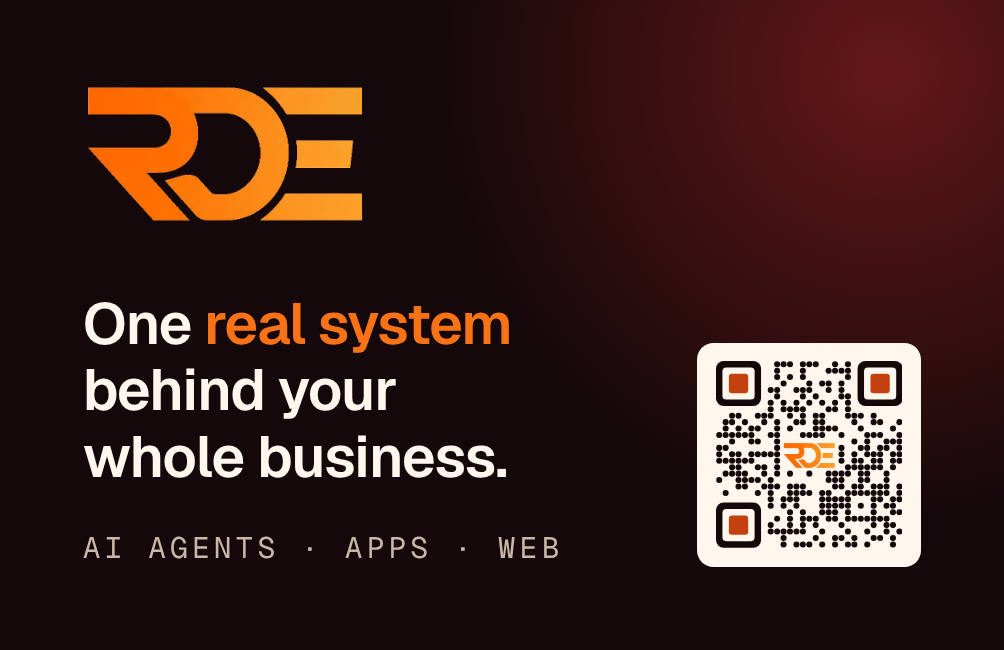
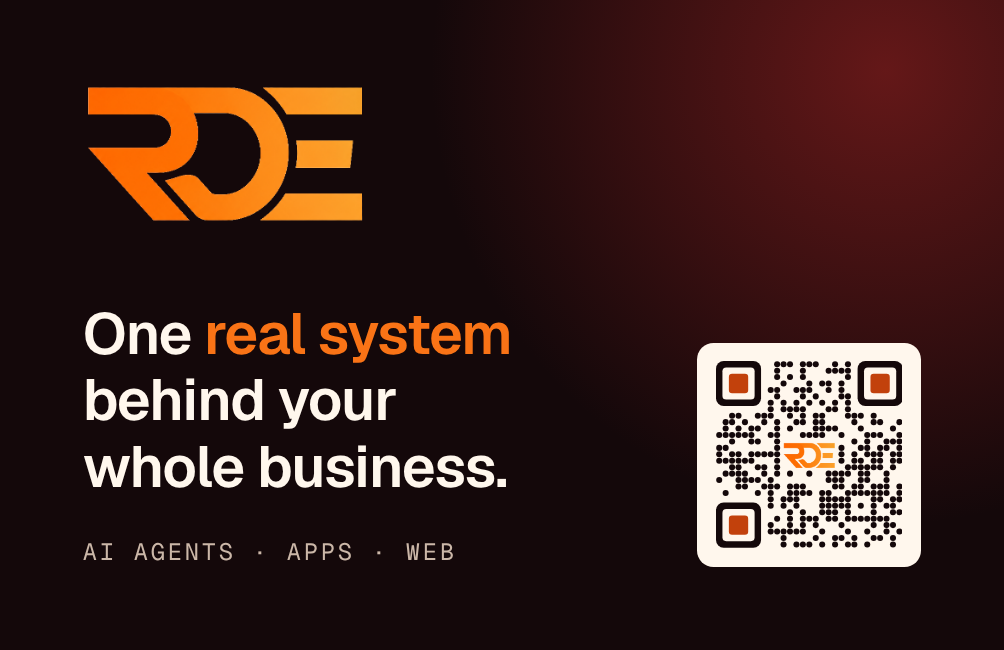
Business card: smaller descriptor line
Claude-Session: https://claude.ai/code/session_01B6fozEJdCLAGrKoXUG1e35

diff --git a/business-card/_back-bleed.html b/business-card/_back-bleed.html
@@ -16,7 +16,7 @@ body{margin:0;background:var(--bg);color:var(--fg);font-family:var(--font)}
 .front .tag{position:absolute;left:calc(7 * var(--mm));bottom:calc(7 * var(--mm));right:calc(7 * var(--mm))}
 .front h2{margin:0;font-weight:600;font-size:calc(4.9 * var(--mm));line-height:1.15;letter-spacing:-.02em;color:var(--paper)}
 .front h2 em{font-style:normal;color:var(--orange)}
-.front .mono{margin-top:calc(3.2 * var(--mm));font-family:var(--mono);font-size:calc(2.5 * var(--mm));letter-spacing:.14em;text-transform:uppercase;color:#cbb7a8}
+.front .mono{margin-top:calc(3 * var(--mm));font-family:var(--mono);font-size:calc(2 * var(--mm));letter-spacing:.12em;text-transform:uppercase;color:#cbb7a8}
 .front .qr{position:absolute;right:calc(7 * var(--mm));bottom:calc(7 * var(--mm));width:calc(19 * var(--mm));height:calc(19 * var(--mm));background:var(--paper);padding:calc(1.6 * var(--mm));border-radius:calc(1.4 * var(--mm))}.front .qr svg{display:block;width:100%;height:100%}
 .front .pil{position:absolute;right:calc(7 * var(--mm));top:calc(8 * var(--mm));font-family:var(--mono);font-size:calc(2.3 * var(--mm));letter-spacing:.14em;text-transform:uppercase;color:var(--peach);opacity:.8}
 .back{background:var(--paper);color:var(--ink)}

diff --git a/business-card/_back.html b/business-card/_back.html
@@ -16,7 +16,7 @@ body{margin:0;background:var(--bg);color:var(--fg);font-family:var(--font)}
 .front .tag{position:absolute;left:calc(7 * var(--mm));bottom:calc(7 * var(--mm));right:calc(7 * var(--mm))}
 .front h2{margin:0;font-weight:600;font-size:calc(4.9 * var(--mm));line-height:1.15;letter-spacing:-.02em;color:var(--paper)}
 .front h2 em{font-style:normal;color:var(--orange)}
-.front .mono{margin-top:calc(3.2 * var(--mm));font-family:var(--mono);font-size:calc(2.5 * var(--mm));letter-spacing:.14em;text-transform:uppercase;color:#cbb7a8}
+.front .mono{margin-top:calc(3 * var(--mm));font-family:var(--mono);font-size:calc(2 * var(--mm));letter-spacing:.12em;text-transform:uppercase;color:#cbb7a8}
 .front .qr{position:absolute;right:calc(7 * var(--mm));bottom:calc(7 * var(--mm));width:calc(19 * var(--mm));height:calc(19 * var(--mm));background:var(--paper);padding:calc(1.6 * var(--mm));border-radius:calc(1.4 * var(--mm))}.front .qr svg{display:block;width:100%;height:100%}
 .front .pil{position:absolute;right:calc(7 * var(--mm));top:calc(8 * var(--mm));font-family:var(--mono);font-size:calc(2.3 * var(--mm));letter-spacing:.14em;text-transform:uppercase;color:var(--peach);opacity:.8}
 .back{background:var(--paper);color:var(--ink)}

diff --git a/business-card/_front-bleed.html b/business-card/_front-bleed.html
@@ -16,7 +16,7 @@ body{margin:0;background:var(--bg);color:var(--fg);font-family:var(--font)}
 .front .tag{position:absolute;left:calc(7 * var(--mm));bottom:calc(7 * var(--mm));right:calc(7 * var(--mm))}
 .front h2{margin:0;font-weight:600;font-size:calc(4.9 * var(--mm));line-height:1.15;letter-spacing:-.02em;color:var(--paper)}
 .front h2 em{font-style:normal;color:var(--orange)}
-.front .mono{margin-top:calc(3.2 * var(--mm));font-family:var(--mono);font-size:calc(2.5 * var(--mm));letter-spacing:.14em;text-transform:uppercase;color:#cbb7a8}
+.front .mono{margin-top:calc(3 * var(--mm));font-family:var(--mono);font-size:calc(2 * var(--mm));letter-spacing:.12em;text-transform:uppercase;color:#cbb7a8}
 .front .qr{position:absolute;right:calc(7 * var(--mm));bottom:calc(7 * var(--mm));width:calc(19 * var(--mm));height:calc(19 * var(--mm));background:var(--paper);padding:calc(1.6 * var(--mm));border-radius:calc(1.4 * var(--mm))}.front .qr svg{display:block;width:100%;height:100%}
 .front .pil{position:absolute;right:calc(7 * var(--mm));top:calc(8 * var(--mm));font-family:var(--mono);font-size:calc(2.3 * var(--mm));letter-spacing:.14em;text-transform:uppercase;color:var(--peach);opacity:.8}
 .back{background:var(--paper);color:var(--ink)}

diff --git a/business-card/_front.html b/business-card/_front.html
@@ -16,7 +16,7 @@ body{margin:0;background:var(--bg);color:var(--fg);font-family:var(--font)}
 .front .tag{position:absolute;left:calc(7 * var(--mm));bottom:calc(7 * var(--mm));right:calc(7 * var(--mm))}
 .front h2{margin:0;font-weight:600;font-size:calc(4.9 * var(--mm));line-height:1.15;letter-spacing:-.02em;color:var(--paper)}
 .front h2 em{font-style:normal;color:var(--orange)}
-.front .mono{margin-top:calc(3.2 * var(--mm));font-family:var(--mono);font-size:calc(2.5 * var(--mm));letter-spacing:.14em;text-transform:uppercase;color:#cbb7a8}
+.front .mono{margin-top:calc(3 * var(--mm));font-family:var(--mono);font-size:calc(2 * var(--mm));letter-spacing:.12em;text-transform:uppercase;color:#cbb7a8}
 .front .qr{position:absolute;right:calc(7 * var(--mm));bottom:calc(7 * var(--mm));width:calc(19 * var(--mm));height:calc(19 * var(--mm));background:var(--paper);padding:calc(1.6 * var(--mm));border-radius:calc(1.4 * var(--mm))}.front .qr svg{display:block;width:100%;height:100%}
 .front .pil{position:absolute;right:calc(7 * var(--mm));top:calc(8 * var(--mm));font-family:var(--mono);font-size:calc(2.3 * var(--mm));letter-spacing:.14em;text-transform:uppercase;color:var(--peach);opacity:.8}
 .back{background:var(--paper);color:var(--ink)}

diff --git a/business-card/preview.html b/business-card/preview.html
@@ -16,7 +16,7 @@ body{margin:0;background:var(--bg);color:var(--fg);font-family:var(--font)}
 .front .tag{position:absolute;left:calc(7 * var(--mm));bottom:calc(7 * var(--mm));right:calc(7 * var(--mm))}
 .front h2{margin:0;font-weight:600;font-size:calc(4.9 * var(--mm));line-height:1.15;letter-spacing:-.02em;color:var(--paper)}
 .front h2 em{font-style:normal;color:var(--orange)}
-.front .mono{margin-top:calc(3.2 * var(--mm));font-family:var(--mono);font-size:calc(2.5 * var(--mm));letter-spacing:.14em;text-transform:uppercase;color:#cbb7a8}
+.front .mono{margin-top:calc(3 * var(--mm));font-family:var(--mono);font-size:calc(2 * var(--mm));letter-spacing:.12em;text-transform:uppercase;color:#cbb7a8}
 .front .qr{position:absolute;right:calc(7 * var(--mm));bottom:calc(7 * var(--mm));width:calc(19 * var(--mm));height:calc(19 * var(--mm));background:var(--paper);padding:calc(1.6 * var(--mm));border-radius:calc(1.4 * var(--mm))}.front .qr svg{display:block;width:100%;height:100%}
 .front .pil{position:absolute;right:calc(7 * var(--mm));top:calc(8 * var(--mm));font-family:var(--mono);font-size:calc(2.3 * var(--mm));letter-spacing:.14em;text-transform:uppercase;color:var(--peach);opacity:.8}
 .back{background:var(--paper);color:var(--ink)}

diff --git a/business-card/build.py b/business-card/build.py
@@ -42,7 +42,7 @@ body{margin:0;background:var(--bg);color:var(--fg);font-family:var(--font)}
 .front .tag{position:absolute;left:calc(7 * var(--mm));bottom:calc(7 * var(--mm));right:calc(7 * var(--mm))}
 .front h2{margin:0;font-weight:600;font-size:calc(4.9 * var(--mm));line-height:1.15;letter-spacing:-.02em;color:var(--paper)}
 .front h2 em{font-style:normal;color:var(--orange)}
-.front .mono{margin-top:calc(3.2 * var(--mm));font-family:var(--mono);font-size:calc(2.5 * var(--mm));letter-spacing:.14em;text-transform:uppercase;color:#cbb7a8}
+.front .mono{margin-top:calc(3 * var(--mm));font-family:var(--mono);font-size:calc(2 * var(--mm));letter-spacing:.12em;text-transform:uppercase;color:#cbb7a8}
 .front .qr{position:absolute;right:calc(7 * var(--mm));bottom:calc(7 * var(--mm));width:calc(19 * var(--mm));height:calc(19 * var(--mm));background:var(--paper);padding:calc(1.6 * var(--mm));border-radius:calc(1.4 * var(--mm))}.front .qr svg{display:block;width:100%;height:100%}
 .front .pil{position:absolute;right:calc(7 * var(--mm));top:calc(8 * var(--mm));font-family:var(--mono);font-size:calc(2.3 * var(--mm));letter-spacing:.14em;text-transform:uppercase;color:var(--peach);opacity:.8}
 .back{background:var(--paper);color:var(--ink)}
